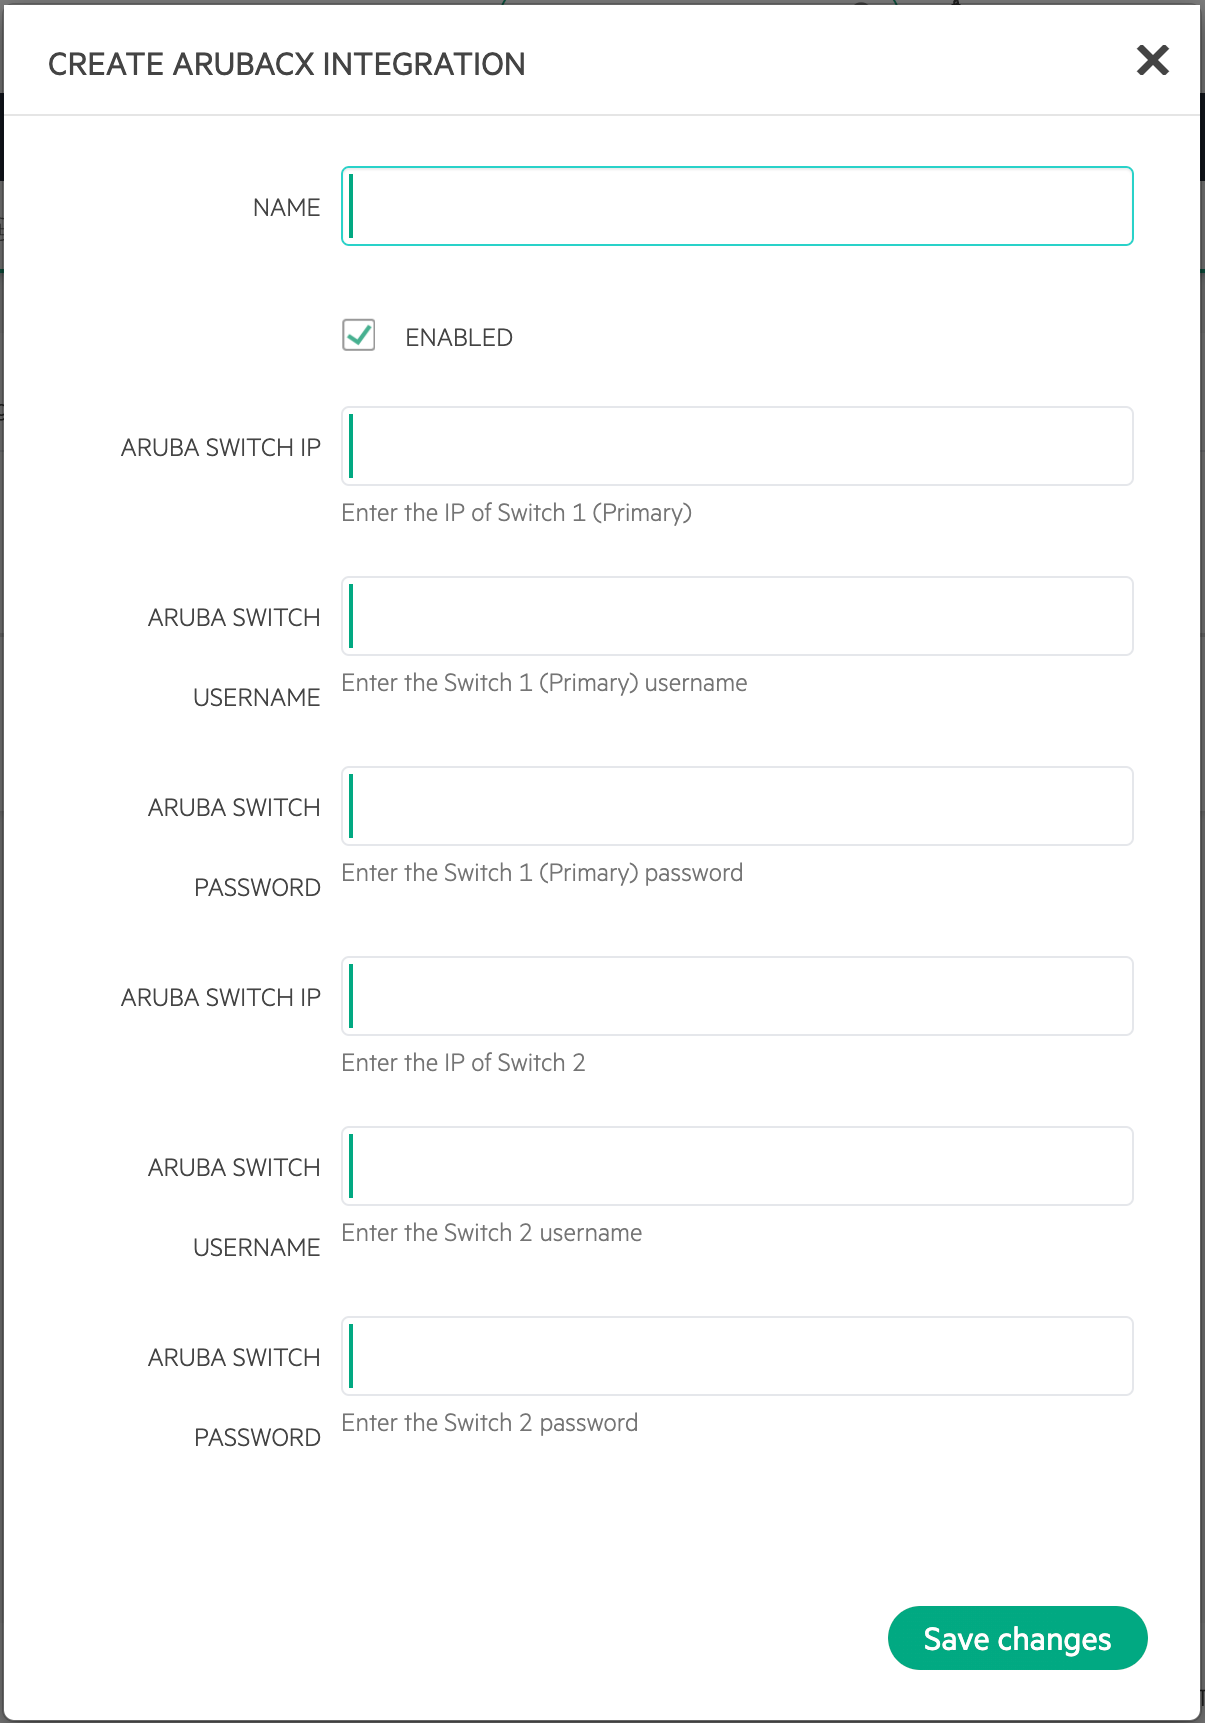
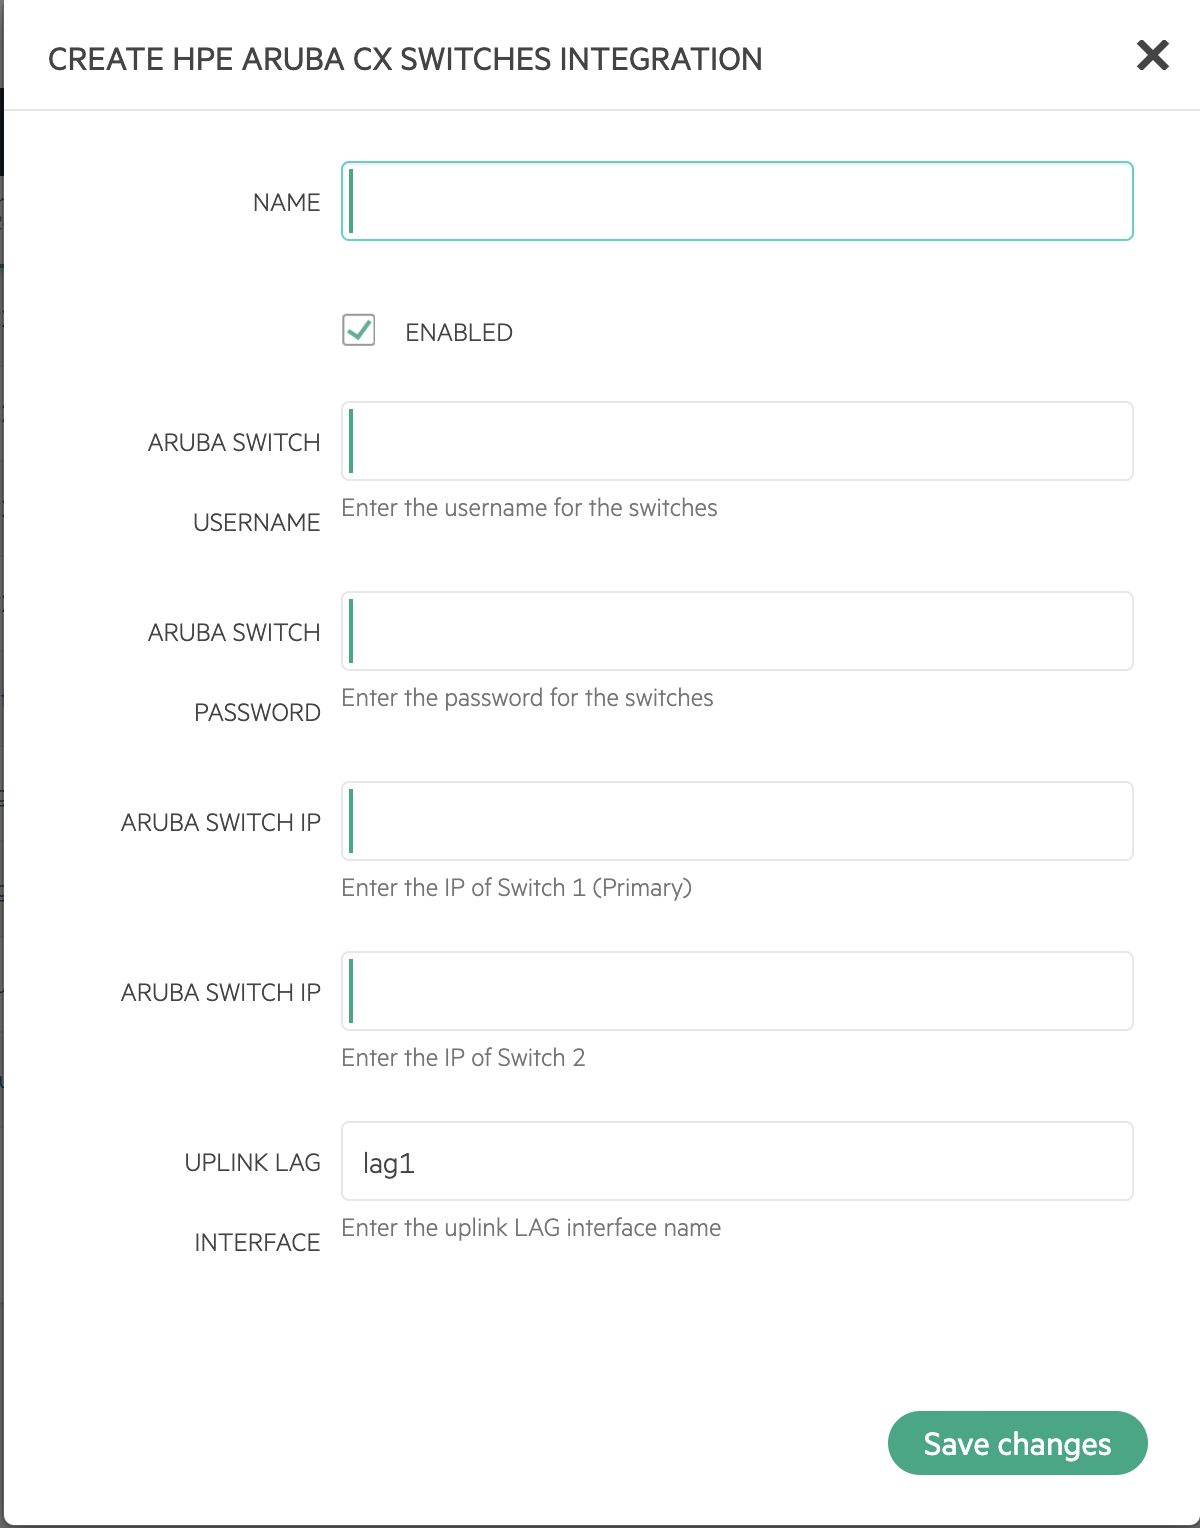
Update Aruba CX plugin integration guide

diff --git a/integration_guides/Networking/hpe-arubacx.rst b/integration_guides/Networking/hpe-arubacx.rst
@@ -94,7 +94,7 @@ Adding ArubaCX Integration
 .. Note:: Making full use of the |morpheus| ArubaCX integration requires credentials for Aruba CX switch pair with API access granted and read/write access to switch configuration. See ArubaCX 8325 documentation for more information on user rights administration in that product.
 
 #. Navigate to |AdmInt|
-#. Select :guilabel:`+ New Integration` > Other > ArubaCX
+#. Select :guilabel:`+ New Integration` > Other > HPE Aruba CX Switches
 
     .. image:: /images/integration_guides/other/arubacx/arubacx_new_integration.png
 
@@ -104,18 +104,17 @@ Adding ArubaCX Integration
     Name of the integration in |morpheus|
    ENABLED
     Deselect to disable the integration
+   ARUBA SWITCH USERNAME
+    User username for both switches
+   ARUBA SWITCH PASSWORD
+    User password for both switches
    ARUBA SWITCH IP
     Primary switch IP address
-   ARUBA SWITCH USERNAME
-    Primary switch user username
-   ARUBA SWITCH PASSWORD
-    Primary switch user password
    ARUBA SWITCH IP
     Secondary switch IP address
-   ARUBA SWITCH USERNAME
-    Secondary switch user username
-   ARUBA SWITCH PASSWORD
-    Secondary switch user password
+   UPLINK LAG INTERFACE
+    Name of the uplink LAG interface (default is 'lag1')
+
 
     .. image:: /images/integration_guides/other/arubacx/arubacx_settings.png
       :width: 40%
